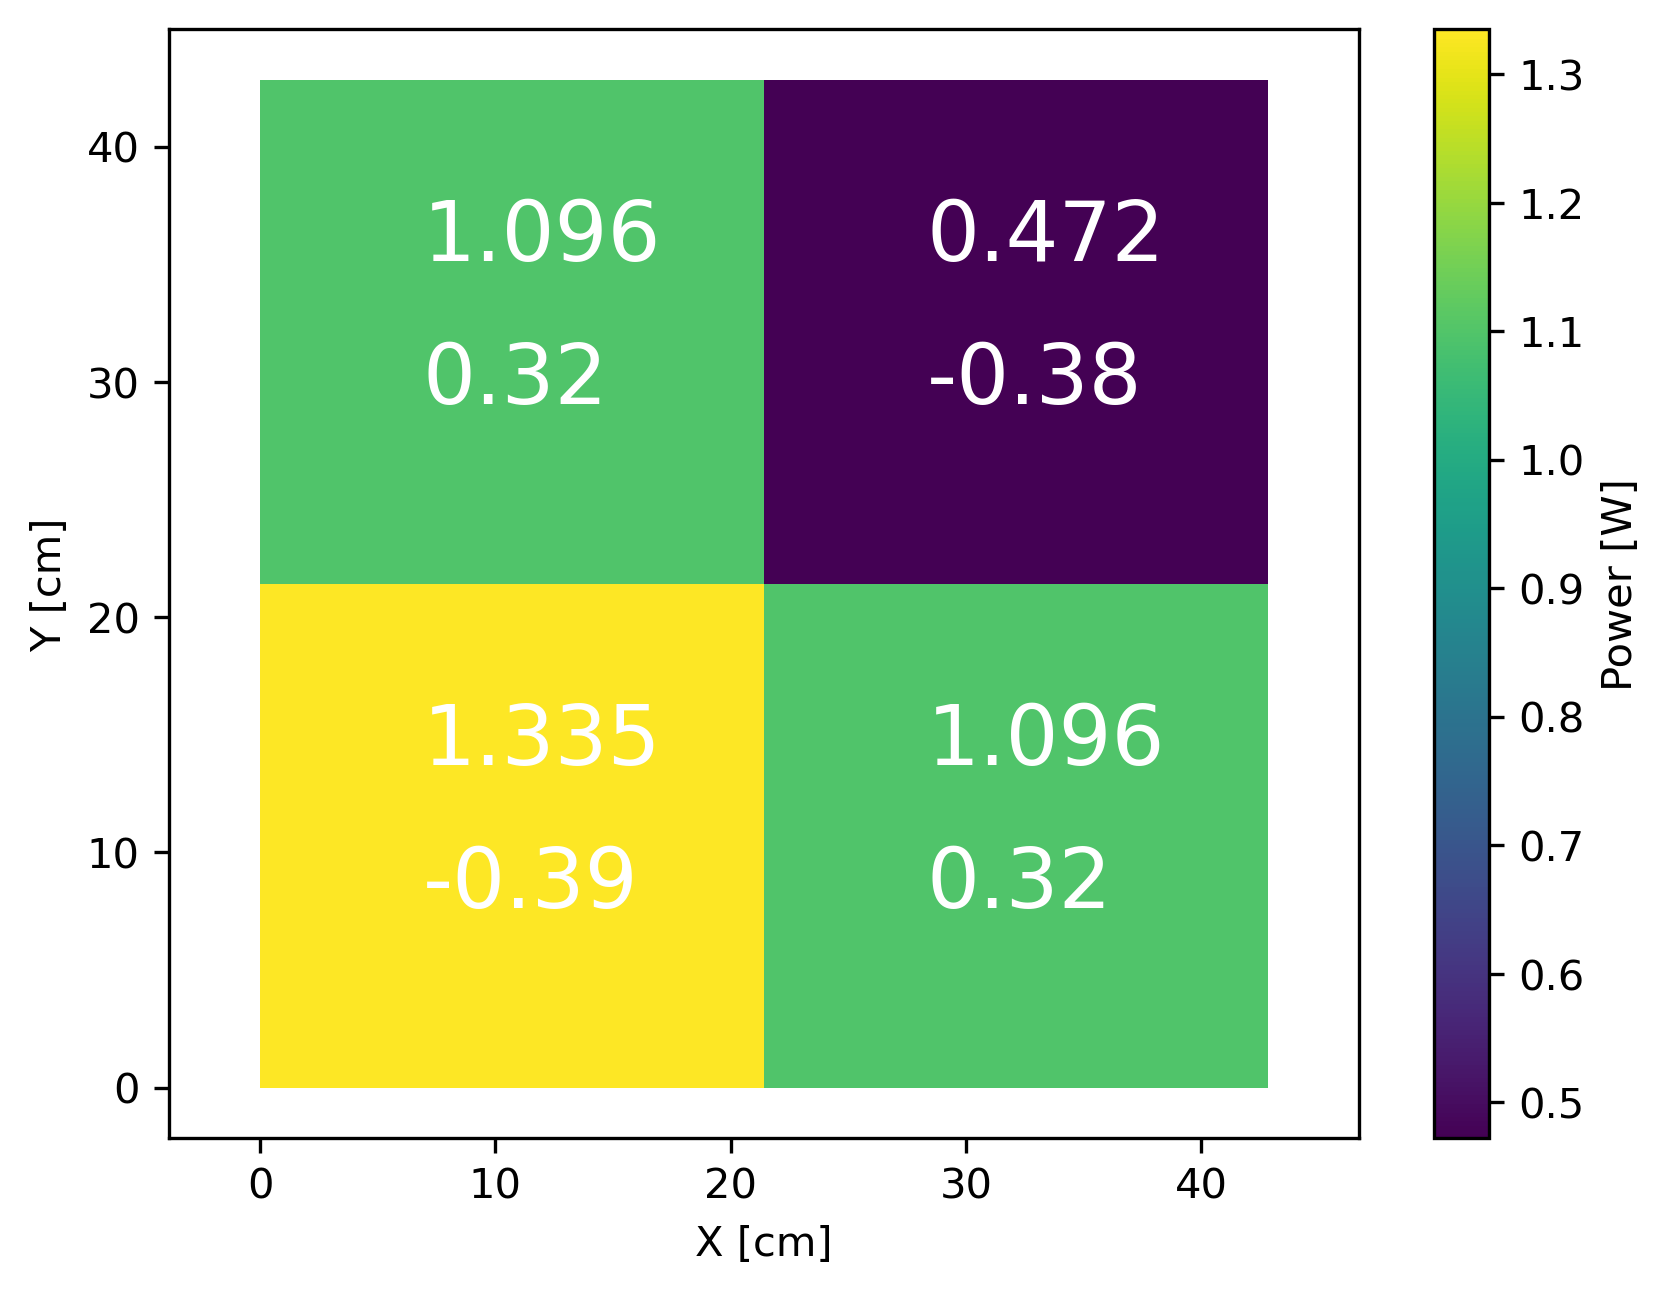
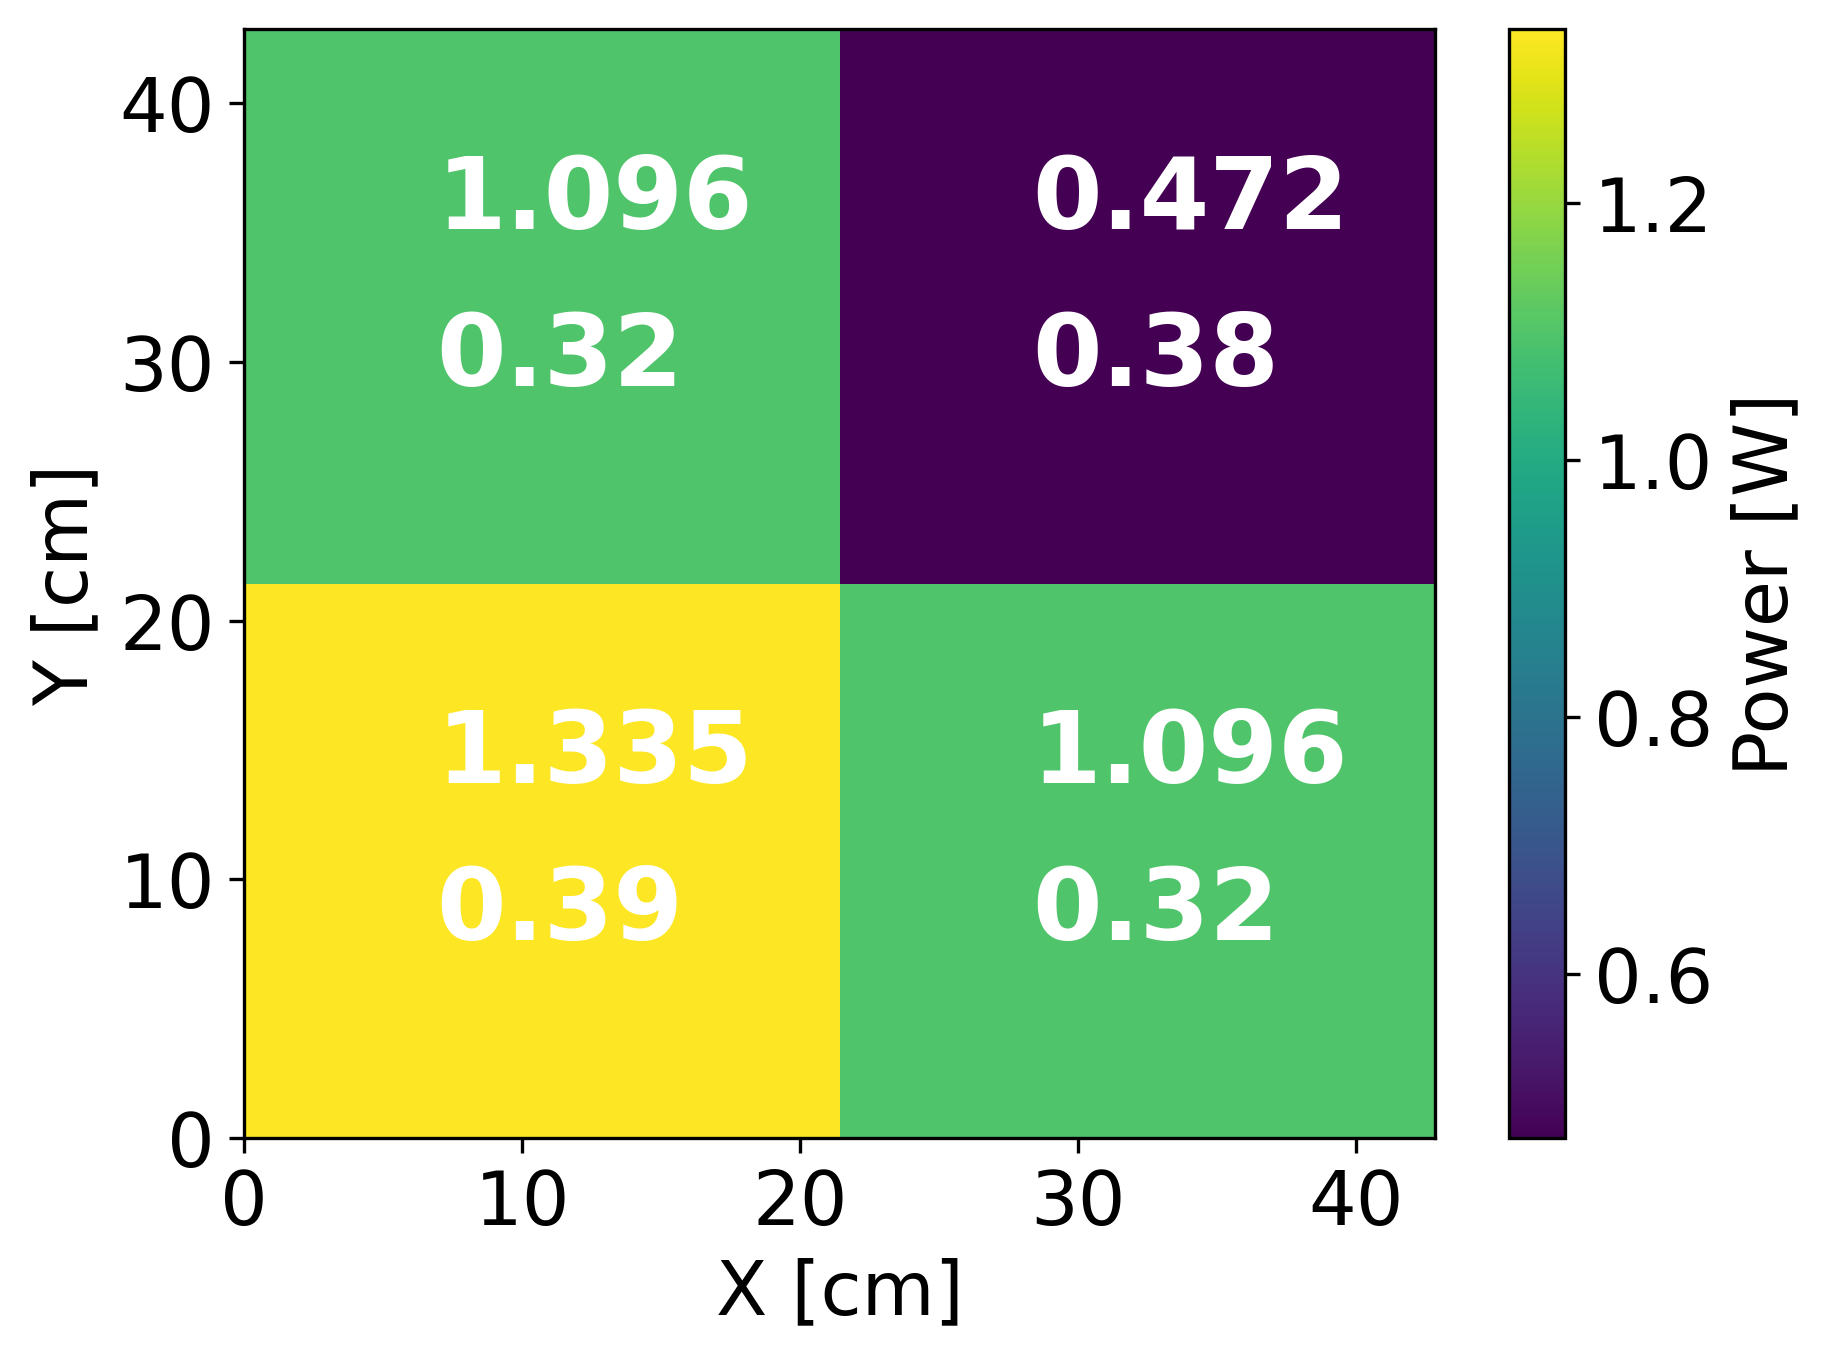
increased font size of figures

diff --git a/summary-ans-annual-2021/summary.tex b/summary-ans-annual-2021/summary.tex
@@ -82,8 +82,8 @@ While Cerberus solves the neutronics in a nuclear reactor using the multi-group 
 % lit - review: the SPN approximation
 The P$_N$ method \cite{davidson_neutron_1957} discretizes the transport equation by expanding the angular dependence of the neutron flux in spherical harmonics, considering up to order $N$ polynomials.
 If $N \rightarrow \infty$, the solution of the P$_N$ equations tends to the exact transport solution.
-In three-dimensional geometries, the number of P$_N$ equations is proportional to $(N+1)^2$, whereas, in one-dimensional planar geometries, the number of P$_N$ equations is $(N+1)$.
-Gelbard \cite{gelbard_spherical_1960} proposed the SP$_N$ approximation by replacing the second derivatives in the one-dimensional planar P$_N$ equations with three-dimensional Laplacian operators.
+In three-dimensional(3D) geometries, the number of P$_N$ equations is proportional to $(N+1)^2$, whereas, in one-dimensional(1D) planar geometries, the number of P$_N$ equations is $(N+1)$.
+Gelbard \cite{gelbard_spherical_1960} proposed the SP$_N$ approximation by replacing the second derivatives in the 1D planar P$_N$ equations with 3D Laplacian operators.
 This approximation considerably reduces the number of equations conserving a reasonable accuracy \cite{capilla_applications_2009}.
 % Capilla et al. \cite{capilla_applications_2009} studied a modified version of the C5 \gls{MOX} fuel Benchmark \cite{cavarec_benchmark_1994} introduced by Brantley and Larsen \cite{brantley_simplifiedP3_2000} comparing the $P_3$ and $SP_3$ methods, the difference between results being less than 40 pcm.
 
@@ -96,7 +96,7 @@ For these reasons, the method did not gain widespread use until the 2000s, when 
 In practice, the SP$_N$ equations are most accurate for diffusive problems or for problems in which the solution behaves nearly one-dimensionally and has weak tangential derivatives at material interfaces.
 % For problems with strong, multidimensional transport effects, such as voids, streaming regions, or geometrically complex regions, the $SP_N$ solutions are less accurate \cite{downar_parcs_2004}.
 % However, several results show that the $SP_N$ approximation yields more accurate solutions than the diffusion approximation \cite{mui_modified_1987} \cite{beckert_development_2007} \cite{fliscounakis_potential_2012} \cite{ryu_finite_2013} \cite{khosravi_mirzaee_reactor_2019} with considerably less computational expense than the discrete ordinates ($S_N$) method \cite{brantley_simplifiedP3_2000}.
-Several results show that the SP$_N$ approximation yields more accurate solutions than the diffusion approximation \cite{mui_modified_1987} \cite{beckert_development_2007} \cite{fliscounakis_potential_2012} \cite{ryu_finite_2013} with considerably less computational expense than the discrete ordinates ($S_N$) method \cite{brantley_simplifiedP3_2000}.
+Several results show that the SP$_N$ approximation yields more accurate solutions than the diffusion approximation \cite{mui_modified_1987} \cite{beckert_development_2007} \cite{ryu_finite_2013} with considerably less computational expense than the discrete ordinates ($S_N$) method \cite{brantley_simplifiedP3_2000}.
 % why is SP_3 preferred over diffusion
 For example, the SP$_3$ approximation is preferable over the diffusion approximation for modeling reactors using MOX/UO$_2$ fuel assemblies.
 MOX fuel assemblies have higher thermal absorption and fission cross-sections than UO$_2$ fuel assemblies, and consequently, their thermal flux is lower while their power production higher.
@@ -111,7 +111,7 @@ Some of those software are PARCS \cite{downar_parcs_2004} and DYN3D \cite{becker
 
 This section describes the methodology followed for solving the equations.
 % Equations P3
-Davidson \cite{davidson_neutron_1957} defined the one-dimensional multi-group P$_N$ equations.
+Davidson \cite{davidson_neutron_1957} defined the 1D multi-group P$_N$ equations.
 In the steady state, for $N=3$, and a negligible fixed source, the equations become
 
 \begin{align}
@@ -172,15 +172,14 @@ Such procedure is standard in weighted residual methods and can be found in \cit
 \section{Results}
 
 This section presents several numerical results that validate Cerberus' calculation scheme.
-The following sections discuss the results of a one group exercise presented in \cite{brantley_simplifiedP3_2000} and describe the results of the C5 MOX Benchmark \cite{cavarec_benchmark_1994}.
+The following sections discuss the results of a one group exercise and describe the results of a two-dimensional(2D) and a 3D configuration of the C5 MOX Benchmark \cite{cavarec_benchmark_1994}.
 
-\subsection{One group two-dimensional problem}
+\subsection{One group 2D problem}
 
 This section describes a one group, isotropic-scattering eigenvalue problem introduced by Brantley and Larsen \cite{brantley_simplifiedP3_2000}.
 This section also presents the eigenvalue obtained with Cerberus and compares it against the reference value.
 % Figure \ref{fig:2D} shows the problem's geometry, and Table \ref{tab:cross-sections} specifies its cross-sections.
-Figure \ref{fig:2D} shows the problem's geometry.
-The fuel plates have a 1 cm-thickness, and the distance among them is 2 cm.
+Figure \ref{fig:2D} shows the problem's geometry, in which the fuel plates have a 1 cm-thickness, the distance between them being 2 cm.
 Due to the problem's symmetry, the model included only a quarter of the core.
 Using the \textit{Gmsh} \cite{geuzaine_gmsh_2009} meshing tool, we created the mesh, which had $6 \times 10^{3}$ elements.
 The problem cross-sections can be found in \cite{brantley_simplifiedP3_2000}.
@@ -242,7 +241,7 @@ The open literature describes different versions and extensions of the C5 MOX be
 The \gls{OECD}/\gls{NEA} developed this benchmark to validate methods and identify their strengths, limitations, and accuracy, and suggest needs for method development.
 This section describes the benchmark exercise and presents Cerberus results.
 
-\begin{figure}[htbp!] %or htbp!
+\begin{figure}[H] %or htbp!
     \centering
     \includegraphics[width=0.55\linewidth]{figures/geo-xy2.png}
     \hfill
@@ -253,7 +252,7 @@ This section describes the benchmark exercise and presents Cerberus results.
 % benchmark specification
 Two types of fuel assembly (MOX and UO$_2$) and a reflector comprise the core, shown in Figure \ref{fig:bench1}.
 Due to the problem's symmetry, the model included only a quarter of the core.
-Each fuel assembly consists of a 17 $\times$ 17 array of squared pin cells, as displayed in Figures \ref{fig:bench2}.
+Each fuel assembly consists of a 17 $\times$ 17 array of squared pin cells, as displayed in Figure \ref{fig:bench2}.
 The dimensions of each pin cell are 1.26 $\times$ 1.26 cm, being 21.42 $\times$ 21.42 cm the dimensions of each assembly.
 The benchmark \cite{cavarec_benchmark_1994} specifies the cross-sections, which have a two-energy group structure.
 
@@ -289,13 +288,13 @@ For the sake of comparison, we conducted the exercise with and without the trans
 The mesh had $2.4 \times 10^{4}$ elements.
 The simulation convergence criterion was $10^{-8}$ for the neutron flux.
 
-Table \ref{tab:keff-2nd} compares the eigenvalues obtained with the SP$_3$ solver and the references.
-For the method without correction, we used an eigenvalue reference value from Capilla et al. \cite{capilla_applications_2009} as they conducted the exercise without correction.
+Table \ref{tab:keff-2nd} compares the eigenvalues obtained with Cerberus and the references.
+For the method without correction, we used a reference value from Capilla et al. \cite{capilla_applications_2009} as they conducted the exercise without correction.
 For the method with transport correction, we used the reference value from the benchmark \cite{cavarec_benchmark_1994}.
 % \usepackage{booktabs}
 \begin{table}[htbp!]
 	\centering
-	\caption{Comparison between the results obtained with the SP$_3$ solver using no correction (equation \ref{eq:diff-rem}), the transport correction (equation \ref{eq:diff-tr}), and the reference results for the C5 MOX Benchmark.}
+	\caption{Comparison between the results obtained with Cerberus using no correction (equation \ref{eq:diff-rem}), the transport correction (equation \ref{eq:diff-tr}), and the reference results for the C5 MOX Benchmark.}
 	\label{tab:keff-2nd}
 	\begin{tabular}{lrrr}
 	\toprule
@@ -308,22 +307,21 @@ For the method with transport correction, we used the reference value from the b
 \end{table}
 
 % discussion about the transport correction
-The results obtained with the SP$_3$ solver are within 145 pcm of the reference values.
+The results obtained Cerberus solver are within 145 pcm of the reference values.
 However, the difference between the reference values of the different schemes is 3535 pcm, suggesting that the use of the transport correction is necessary.
 % examples of codes using the diagonal transport correction PARCS \cite{downar_parcs_2004}, DYN3D \cite{beckert_development_2007}
 
 % Pin-by-pin power distribution: choose one of the 3, the one w/ largest errors
-The next step was to calculate the pin power distribution.
-Figure \ref{fig:power-pbp} shows the relative difference to the reference provided by the benchmark \cite{cavarec_benchmark_1994} of the pin power distribution calculated with Cerberus in the MOX assembly located in the lower right of Figure \ref{fig:bench1}.
-We present this result for the MOX assembly only, as it has the largest relative errors.
+The next step was to calculate the pin power distribution, and for conciseness, we only calculated it using the transport correction.
+Figure \ref{fig:power-pbp} shows the relative difference to the reference of the pin power distribution calculated with Cerberus.
+We present this result only for the MOX assembly located in the lower right of Figure \ref{fig:bench1}, as it had the largest relative errors.
 The largest relative error is 1.88\%.
-For conciseness, we only calculated the power distribution using the transport correction.
 
 \begin{figure}[h] %or H 
     \centering
     \includegraphics[width=0.75\linewidth]{figures/mox-r-pin-by-pin.png}
     \hfill
-    \caption{Power distribution in the MOX assembly of the C5 MOX Benchmark.}
+    \caption{Relative difference to the reference values in \cite{cavarec_benchmark_1994} of the power distribution in the lower-right MOX assembly of the C5 MOX Benchmark.}
     \label{fig:power-pbp}
 \end{figure}
 
@@ -362,12 +360,11 @@ Ryu et al. \cite{ryu_finite_2013} defined a 3D mini-core variation of the C5 MOX
 This section uses their results as a reference.
 
 % geometry description
-The radial layout of the core is shown in Figure \ref{fig:bench1}.
-Figure \ref{fig:c5g2-3d} displays the axial layout of the core and its dimensions.
+The radial and axial layout of the core is shown in Figures \ref{fig:bench1} and \ref{fig:c5g2-3d}.
 
 \begin{figure}[h] %or H 
     \centering
-    \includegraphics[width=0.4\linewidth]{figures/geo-xz2.png}
+    \includegraphics[width=0.5\linewidth]{figures/geo-xz2.png}
     \hfill
     \caption{Axial layout of the C5G2 3D Benchmark. UO$_2$ assembly in gray. MOX assembly in red. Reflector in green.}
     \label{fig:c5g2-3d}

diff --git a/C5G2-original/postprocessing.py b/C5G2-original/postprocessing.py
@@ -249,7 +249,8 @@ def plot_radial_power_distribution(pitch, power, rel=False):
     ax = gca()
     pc.set_array(power)
     ax.add_collection(pc)
-    ax.set_xlim(xmin, xmax)
+    print(xmin, xmax, ymin, ymax)
+    ax.set_xlim(ymin, xmax)
     ax.set_ylim(ymin, ymax)
 
     cbar = plt.colorbar(pc)
@@ -261,14 +262,18 @@ def plot_radial_power_distribution(pitch, power, rel=False):
         #              s=np.round(power[i], 3), fontsize=20, color='w')
 
     else:
-        cbar.ax.set_ylabel('Relative error [%]')
+        cbar.ax.set_ylabel('Relative error [%]', fontsize=16)
         # for i in range(len(coord)):
         #     plt.text(x=coord[i][0]-F/4, y=coord[i][1]-F/5,
         #              s=np.round(power[i], 3), fontsize=20, color='w')
 
-    plt.axis('equal')
-    plt.xlabel('X [cm]')
-    plt.ylabel('Y [cm]')
+    cbar.ax.tick_params(labelsize=18)
+    ax.tick_params(axis="x", labelsize=18)
+    ax.tick_params(axis="y", labelsize=18)
+
+    # plt.axis('equal')
+    plt.xlabel('X [cm]', fontsize=16)
+    plt.ylabel('Y [cm]', fontsize=16)
 
 
 def bench_power_pin_by_pin():
@@ -683,8 +688,8 @@ if __name__ == "__main__":
     # plt.savefig('distrib-moltres-mox', dpi=300, bbox_inches="tight")
     # plt.close()
 
-    uo2_p, _, _, uo2_r, _, _ = power_distrib_pin_by_pin('input-2g-power.csv')
-    print('uo2a max: ', np.max(uo2_r))
+    # uo2_p, _, _, uo2_r, _, _ = power_distrib_pin_by_pin('input-2g-power.csv')
+    # print('uo2a max: ', np.max(uo2_r))
     # plt.figure()
     # plot_radial_power_distribution(1.26, uo2_p, rel=False)
     # plt.savefig('uo2a-pin-by-pin', dpi=300, bbox_inches="tight")
@@ -695,8 +700,8 @@ if __name__ == "__main__":
     # plt.savefig('uo2a-r-pin-by-pin', dpi=300, bbox_inches="tight")
     # plt.close()
 
-    _, uo2_p, _, _, uo2_r, _ = power_distrib_pin_by_pin('input-2g-power.csv')
-    print('uo2b max: ', np.max(uo2_r))
+    # _, uo2_p, _, _, uo2_r, _ = power_distrib_pin_by_pin('input-2g-power.csv')
+    # print('uo2b max: ', np.max(uo2_r))
     # plt.figure()
     # plot_radial_power_distribution(1.26, uo2_p, rel=False)
     # plt.savefig('uo2b-pin-by-pin', dpi=300, bbox_inches="tight")
@@ -708,13 +713,13 @@ if __name__ == "__main__":
     # plt.close()
 
     _, _, mox_p, _, _, mox_r = power_distrib_pin_by_pin('input-2g-power.csv')
-    print('mox max: ', np.max(mox_r))
+    # print('mox max: ', np.max(mox_r))
     # plt.figure()
     # plot_radial_power_distribution(1.26, mox_p, rel=False)
     # plt.savefig('mox-pin-by-pin', dpi=300, bbox_inches="tight")
     # plt.close()
 
-    # plt.figure()
-    # plot_radial_power_distribution(1.26, mox_r, rel=True)
-    # plt.savefig('mox-r-pin-by-pin', dpi=300, bbox_inches="tight")
-    # plt.close()
+    plt.figure()
+    plot_radial_power_distribution(1.26, mox_r, rel=True)
+    plt.savefig('mox-r-pin-by-pin', dpi=300, bbox_inches="tight")
+    plt.close()

diff --git a/brantley-larsen-2d/postprocessing.py b/brantley-larsen-2d/postprocessing.py
@@ -27,7 +27,7 @@ def add_legend():
     ax.xaxis.set_major_formatter(ticks_x)
     xticks = np.arange(0, np.floor(xlength)+1, 5)/scalex
     ax.set_xticks(xticks)
-    ax.tick_params(axis="x", labelsize=14)
+    ax.tick_params(axis="x", labelsize=16)
 
     ylength = 20
     scaley = ylength/567
@@ -35,10 +35,10 @@ def add_legend():
     ax.yaxis.set_major_formatter(ticks_y)
     yticks = np.arange(0, np.floor(ylength)+1, 5)/scaley
     ax.set_yticks(yticks)
-    ax.tick_params(axis="y", labelsize=14)
+    ax.tick_params(axis="y", labelsize=16)
 
-    ax.set_xlabel('x [cm]', fontsize=14)
-    ax.set_ylabel('y [cm]', fontsize=14)
+    ax.set_xlabel('x [cm]', fontsize=16)
+    ax.set_ylabel('y [cm]', fontsize=16)
     # plt.legend(handles=[matrix, block], loc="lower right",
     #            bbox_to_anchor=(1.0, 1.0),  fontsize=12)
     plt.savefig("mesh2", dpi=300, bbox_inches="tight")
